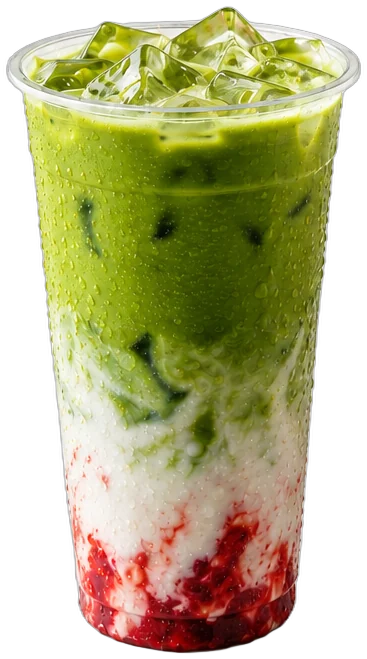
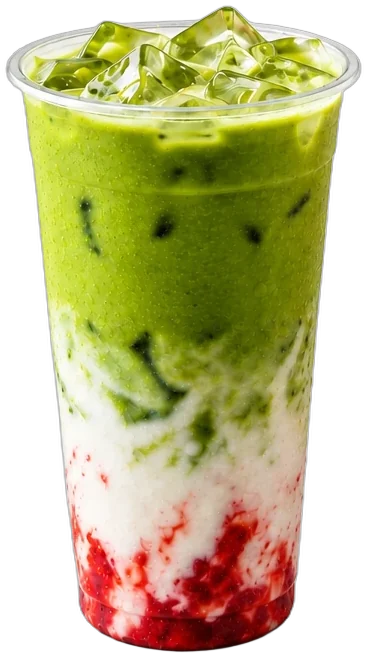
Neues Hero-Bild ohne Wassertropfen, matte Goldschrift, neue Impressionen
- Becher im Hero und bei den Highlights aus dem neuen Bild des Auftraggebers
  (ohne Kondenstropfen), lokal freigestellt; Karten-Vorschaubilder und
  og-image neu erzeugt
- Goldschrift matt statt glänzend (ruhiger Goldverlauf, weichere Tiefe)
- Impressionen: Instagram-Screenshots entfernt, sechs gemeinfreie
  Stimmungsbilder (CC0 1.0) eingesetzt; Texte, Footer-Hinweis, Impressum und
  BILDQUELLEN entsprechend angepasst

Claude-Session: https://claude.ai/code/session_01NMtSxo3TCHUsXYCRgdWDrR

diff --git a/assets/js/content-fallback.js b/assets/js/content-fallback.js
@@ -1,2 +1,2 @@
 /* Automatisch erzeugt aus content.json (node tools/build-fallback.mjs). Bitte nicht von Hand bearbeiten. */
-window.KARMA_FALLBACK = {"_anleitung":"Alle Texte, Preise und Öffnungszeiten der Website stehen in dieser Datei. Nur den Text zwischen den Anführungszeichen rechts vom Doppelpunkt ändern. Mehr dazu in LIES-MICH.md.","cafe":{"name":"Karma Specialty Coffee","kurzname":"Karma","slogan_auf_becher":"This is your Karma","strasse":"Bahnstraße 4","plz":"63225","ort":"Langen (Hessen)","instagram_name":"@yourkarmacoffee","instagram_link":"https://www.instagram.com/yourkarmacoffee/","route_link":"https://www.google.com/maps/search/?api=1&query=Karma+Specialty+Coffee+Bahnstra%C3%9Fe+4+63225+Langen","google_sterne":"4,4","google_anzahl_bewertungen":"103","google_link":"https://www.google.com/maps/search/?api=1&query=Karma+Specialty+Coffee+Bahnstra%C3%9Fe+4+63225+Langen"},"seo":{"seitentitel":"Karma Specialty Coffee · Açaí, Matcha & Kaffee in Langen","beschreibung":"Açaí Cups, Iced Matcha und Specialty Coffee in der Bahnstraße 4 in Langen (Hessen). Täglich von 9 bis 19 Uhr geöffnet."},"navigation":{"acai":"Açaí","matcha":"Matcha","karte":"Karte","besuch":"Besuch","heute_offen":"Heute geöffnet","heute_zu":"Gerade geschlossen","bis":"bis","ab":"ab","uhr":"Uhr"},"hero":{"titel_zeile_1":"Karma","titel_zeile_2":"Specialty Coffee","claim":"Açaí, Matcha & Specialty Coffee mitten in Langen.","karte_button":"Zur Karte","bewertung_text":"Google-Bewertungen","becher":["Iced Strawberry Matcha mit grünem Matcha, Milch, Erdbeerpüree und Eiswürfeln","Açaí-Becher mit Mango-Maracuja-Schicht, belegt mit Erdbeeren, Banane und Kakao-Nibs","Açaí-Becher mit Granola und Kokoscreme, belegt mit Banane, Erdbeeren, Kiwi, Chia und Schokosauce","Rosa Erdbeer-Smoothie mit Erdbeerstücken und Strohhalm"]},"highlights":{"titel":"Highlight","zutaten_titel":"Drin & drauf","preis_hinweis":"Beispielpreis","eintraege":[{"id":"acai","name":"Karma Signature","kursiv":"Signature","untertitel":"Unser Açaí Cup, Schicht für Schicht.","beschreibung":"Gefrorenes Açaí im Wechsel mit Kokoscreme und knusprigem Granola. Oben Banane, Erdbeeren, Kiwi, ein Hauch Chia und Schokosauce.","zutaten":["Açaí","Kokoscreme","Granola","Banane","Erdbeeren","Kiwi","Chia","Schokosauce"],"groesse":"0,4 l","preis":"8,90 €","hintergrundwort":"Açaí","bild_beschreibung":"Açaí-Becher mit Schichten aus Açaí, Kokoscreme und Granola, belegt mit Banane, Erdbeeren, Kiwi, Chia und Schokosauce"},{"id":"matcha","name":"Iced Strawberry Matcha","kursiv":"Matcha","untertitel":"Drei Schichten auf Eis.","beschreibung":"Unten Erdbeerpüree, in der Mitte kalte Milch, oben aufgeschlagener Ceremonial Matcha. Umrühren oder Schicht für Schicht trinken.","zutaten":["Ceremonial Matcha","Milch nach Wahl","Erdbeerpüree","Eis"],"groesse":"0,4 l","preis":"5,90 €","hintergrundwort":"Matcha","bild_beschreibung":"Iced Strawberry Matcha mit grünem Matcha, weißer Milch und roter Erdbeerschicht, mit Eiswürfeln"}]},"impressionen":{"titel":"Impressionen","text":"So sieht es bei uns aus, direkt vom Tresen.","instagram_text":"Mehr auf Instagram","bilder":[{"bild":"assets/impressionen/karma-02-swirl-duo.webp","format":"hoch","bildunterschrift":"Swirl & Crunch","beschreibung":"Zwei Açaí-Becher mit weißem Swirl, Beeren, Kokos und Mandelblättchen auf der Theke"},{"bild":"assets/impressionen/karma-01-chia-layer.webp","format":"hoch","bildunterschrift":"Schicht für Schicht","beschreibung":"Becher mit Açaí, Erdnussbutter und Chiapudding, belegt mit Beeren, Banane und Mandeln"},{"bild":"assets/impressionen/karma-03-trio.webp","format":"hoch","bildunterschrift":"Frisch gemacht","beschreibung":"Drei Açaí-Becher in einer Reihe mit Blaubeeren, Erdbeeren, Erdnussbutter und Kakao-Nibs"}]},"speisekarte":{"titel":"Die Karte","einleitung":"Ein Auszug aus dem, was es bei uns gibt.","hinweis":"Beispielkarte: Auswahl und Preise sind beispielhaft und können vor Ort abweichen.","kategorien":[{"id":"cups","name":"Açaí Cups","eintraege":[{"name":"Karma Signature","beschreibung":"Açaí, Kokoscreme, Granola, Banane, Erdbeeren, Kiwi, Schokosauce","preis":"8,90 €","bild":"assets/img/karte/cup-karma.webp"},{"name":"Mango Passion","beschreibung":"Açaí, Mango-Maracuja, Banane, Erdbeeren, Kakao-Nibs","preis":"8,40 €","bild":"assets/img/karte/cup-mango.webp"},{"name":"Classic","beschreibung":"Açaí, Kokos-Swirl, Blaubeeren, Erdbeeren, Kokos","preis":"7,90 €","bild":"assets/img/karte/cup-classic.webp"},{"name":"Caramel Crunch","beschreibung":"Açaí, Karamell, Vanille-Topping, Mandeln","preis":"8,40 €","bild":"assets/img/karte/cup-caramel.webp"},{"name":"Peanut Power","beschreibung":"Açaí, Chiapudding, Erdnussbutter, Beeren","preis":"8,90 €","bild":"assets/img/karte/cup-peanut.webp"},{"name":"Berry Blast","beschreibung":"Açaí, Chia, Erdbeeren, Blaubeeren, Kakao-Nibs","preis":"8,40 €","bild":"assets/img/karte/cup-berry.webp"}]},{"id":"eigener-cup","name":"Eigener Cup","eintraege":[{"name":"Açaí & Kokos","beschreibung":"Açaí mit Kokos-Swirl, dazu zwei Toppings nach Wahl","preis":"7,20 €","bild":"assets/img/karte/cup-base-kokos.webp"},{"name":"Açaí & Karamell","beschreibung":"Açaí mit Karamell-Swirl, dazu zwei Toppings nach Wahl","preis":"7,20 €","bild":"assets/img/karte/cup-base-karamell.webp"},{"name":"Açaí & Chia","beschreibung":"Açaí mit Chiapudding, dazu zwei Toppings nach Wahl","preis":"7,50 €","bild":"assets/img/karte/cup-base-chia.webp"}]},{"id":"smoothies","name":"Smoothies","eintraege":[{"name":"Green Glow","beschreibung":"Spinat, Apfel, Banane, Ingwer, Limette","preis":"6,50 €","bild":"assets/img/karte/smoothie-green.webp"},{"name":"Pink Karma","beschreibung":"Erdbeere, Himbeere, Banane, Hafermilch","preis":"6,50 €","bild":"assets/img/karte/smoothie-pink.webp"},{"name":"Mango Sunrise","beschreibung":"Mango, Maracuja, Orange, Kokoswasser","preis":"6,50 €","bild":"assets/img/karte/smoothie-mango.webp"}]},{"id":"matcha","name":"Matcha & Drinks","eintraege":[{"name":"Iced Strawberry Matcha","beschreibung":"Erdbeerpüree, Milch, Ceremonial Matcha","preis":"5,90 €","bild":"assets/img/karte/drink-strawberry-matcha.webp"},{"name":"Iced Matcha Latte","beschreibung":"Ceremonial Matcha auf Milch und Eis","preis":"5,20 €","bild":"assets/img/karte/drink-iced-matcha.webp"},{"name":"Matcha Latte","beschreibung":"Heiß, mit Milch nach Wahl","preis":"4,90 €","bild":"assets/img/karte/drink-matcha-latte.webp"},{"name":"Chai Latte","beschreibung":"Gewürzter Schwarztee mit Milch und Zimt","preis":"4,60 €","bild":"assets/img/karte/drink-chai.webp"}]},{"id":"kaffee","name":"Kaffee","eintraege":[{"name":"Espresso","beschreibung":"Specialty Roast, doppelt","preis":"2,60 €","bild":"assets/img/karte/coffee-espresso.webp"},{"name":"Cappuccino","beschreibung":"Espresso, Milchschaum, Latte Art","preis":"3,80 €","bild":"assets/img/karte/coffee-cappuccino.webp"},{"name":"Flat White","beschreibung":"Doppelter Espresso, wenig Milch","preis":"4,20 €","bild":"assets/img/karte/coffee-flatwhite.webp"},{"name":"Iced Latte","beschreibung":"Espresso auf Milch und Eis","preis":"4,50 €","bild":"assets/img/karte/coffee-iced-latte.webp"}]},{"id":"extras","name":"Extras & Toppings","eintraege":[{"name":"Granola","beschreibung":"Hausgemacht, knusprig","preis":"0,80 €","bild":"assets/img/karte/extra-granola.webp"},{"name":"Erdnussbutter","beschreibung":"Cremig, ohne Zuckerzusatz","preis":"1,00 €","bild":"assets/img/karte/extra-peanut.webp"},{"name":"Kokoschips","beschreibung":"Geröstet","preis":"0,70 €","bild":"assets/img/karte/extra-coconut.webp"},{"name":"Frische Früchte","beschreibung":"Beeren, Banane, Mango","preis":"1,20 €","bild":"assets/img/karte/extra-fruit.webp"}]}]},"oeffnungszeiten":{"titel":"Öffnungszeiten","zusammenfassung":"Täglich 9–19 Uhr","tage":[{"tag":"Montag","zeiten":["09:00-19:00"]},{"tag":"Dienstag","zeiten":["09:00-19:00"]},{"tag":"Mittwoch","zeiten":["09:00-19:00"]},{"tag":"Donnerstag","zeiten":["09:00-19:00"]},{"tag":"Freitag","zeiten":["09:00-19:00"]},{"tag":"Samstag","zeiten":["09:00-19:00"]},{"tag":"Sonntag","zeiten":["09:00-19:00"]}],"geschlossen_text":"geschlossen"},"besuch":{"kicker":"Besuch uns","titel":"Komm vorbei.","kursiv":"vorbei.","text":"Mitten in Langen, ein paar Schritte vom Bahnhof. Zum Mitnehmen oder für eine Pause am Fenster.","route_button":"Route planen","instagram_button":"Instagram","bewertung_text":"bei Google","bewertungen_wort":"Bewertungen"},"footer":{"impressum_text":"Impressum","impressum_link":"impressum.html","datenschutz_text":"Datenschutz","datenschutz_link":"datenschutz.html","copyright":"© 2026 Karma Specialty Coffee","demo_hinweis":"Demo-Website. Preise und Speisekarte sind Beispielinhalte."},"bildkennzeichnung":{"bild_text":"Symbolbild","footer_text_anzeigen":true,"footer_text":"Die Becher im Hero und bei den Highlights sind Symbolbilder. Die Fotos unter „Impressionen“ und die Vorschaubilder der Signature Cups sind echte Fotos aus dem Café, die übrigen Vorschaubilder der Karte sind 3D-Visualisierungen."},"bedienhilfen":{"zum_inhalt_springen":"Zum Inhalt springen","hauptnavigation":"Hauptnavigation","galerie_label":"Fotos aus dem Café","laden":"Lädt","sterne_label":"von 5 Sternen"}};
+window.KARMA_FALLBACK = {"_anleitung":"Alle Texte, Preise und Öffnungszeiten der Website stehen in dieser Datei. Nur den Text zwischen den Anführungszeichen rechts vom Doppelpunkt ändern. Mehr dazu in LIES-MICH.md.","cafe":{"name":"Karma Specialty Coffee","kurzname":"Karma","slogan_auf_becher":"This is your Karma","strasse":"Bahnstraße 4","plz":"63225","ort":"Langen (Hessen)","instagram_name":"@yourkarmacoffee","instagram_link":"https://www.instagram.com/yourkarmacoffee/","route_link":"https://www.google.com/maps/search/?api=1&query=Karma+Specialty+Coffee+Bahnstra%C3%9Fe+4+63225+Langen","google_sterne":"4,4","google_anzahl_bewertungen":"103","google_link":"https://www.google.com/maps/search/?api=1&query=Karma+Specialty+Coffee+Bahnstra%C3%9Fe+4+63225+Langen"},"seo":{"seitentitel":"Karma Specialty Coffee · Açaí, Matcha & Kaffee in Langen","beschreibung":"Açaí Cups, Iced Matcha und Specialty Coffee in der Bahnstraße 4 in Langen (Hessen). Täglich von 9 bis 19 Uhr geöffnet."},"navigation":{"acai":"Açaí","matcha":"Matcha","karte":"Karte","besuch":"Besuch","heute_offen":"Heute geöffnet","heute_zu":"Gerade geschlossen","bis":"bis","ab":"ab","uhr":"Uhr"},"hero":{"titel_zeile_1":"Karma","titel_zeile_2":"Specialty Coffee","claim":"Açaí, Matcha & Specialty Coffee mitten in Langen.","karte_button":"Zur Karte","bewertung_text":"Google-Bewertungen","becher":["Iced Strawberry Matcha mit grünem Matcha, Milch, Erdbeerpüree und Eiswürfeln","Açaí-Becher mit Mango-Maracuja-Schicht, belegt mit Erdbeeren, Banane und Kakao-Nibs","Açaí-Becher mit Granola und Kokoscreme, belegt mit Banane, Erdbeeren, Kiwi, Chia und Schokosauce","Rosa Erdbeer-Smoothie mit Erdbeerstücken und Strohhalm"]},"highlights":{"titel":"Highlight","zutaten_titel":"Drin & drauf","preis_hinweis":"Beispielpreis","eintraege":[{"id":"acai","name":"Karma Signature","kursiv":"Signature","untertitel":"Unser Açaí Cup, Schicht für Schicht.","beschreibung":"Gefrorenes Açaí im Wechsel mit Kokoscreme und knusprigem Granola. Oben Banane, Erdbeeren, Kiwi, ein Hauch Chia und Schokosauce.","zutaten":["Açaí","Kokoscreme","Granola","Banane","Erdbeeren","Kiwi","Chia","Schokosauce"],"groesse":"0,4 l","preis":"8,90 €","hintergrundwort":"Açaí","bild_beschreibung":"Açaí-Becher mit Schichten aus Açaí, Kokoscreme und Granola, belegt mit Banane, Erdbeeren, Kiwi, Chia und Schokosauce"},{"id":"matcha","name":"Iced Strawberry Matcha","kursiv":"Matcha","untertitel":"Drei Schichten auf Eis.","beschreibung":"Unten Erdbeerpüree, in der Mitte kalte Milch, oben aufgeschlagener Ceremonial Matcha. Umrühren oder Schicht für Schicht trinken.","zutaten":["Ceremonial Matcha","Milch nach Wahl","Erdbeerpüree","Eis"],"groesse":"0,4 l","preis":"5,90 €","hintergrundwort":"Matcha","bild_beschreibung":"Iced Strawberry Matcha mit grünem Matcha, weißer Milch und roter Erdbeerschicht, mit Eiswürfeln"}]},"impressionen":{"titel":"Impressionen","text":"Açaí, Matcha, Smoothies und Kaffee: so schmeckt ein guter Tag.","instagram_text":"Echte Fotos aus dem Café auf Instagram","bilder":[{"bild":"assets/impressionen/karma-01-smoothie-trio.webp","format":"hoch","bildunterschrift":"Frisch geschichtet","beschreibung":"Drei geschichtete Smoothies mit Banane, Mango und Granola in Gläsern"},{"bild":"assets/impressionen/karma-02-matcha-latte.webp","format":"hoch","bildunterschrift":"Matcha Latte","beschreibung":"Grüner Matcha Latte mit Milchschaum-Muster, von oben fotografiert"},{"bild":"assets/impressionen/karma-03-iced-latte.webp","format":"hoch","bildunterschrift":"Iced Latte","beschreibung":"Iced Latte mit Eiswürfeln und Strohhalm auf einem Holztisch"},{"bild":"assets/impressionen/karma-04-cappuccino.webp","format":"hoch","bildunterschrift":"Cappuccino","beschreibung":"Cappuccino mit Latte Art in einer blauen Tasse auf Untertasse"},{"bild":"assets/impressionen/karma-05-erdbeer-smoothie.webp","format":"hoch","bildunterschrift":"Erdbeer-Smoothie","beschreibung":"Rosa Erdbeer-Smoothie im Glas mit einer Erdbeere am Rand"},{"bild":"assets/impressionen/karma-06-latte-art.webp","format":"hoch","bildunterschrift":"Latte Art","beschreibung":"Hände gießen Milchschaum in eine Tasse Kaffee und formen ein Muster"}]},"speisekarte":{"titel":"Die Karte","einleitung":"Ein Auszug aus dem, was es bei uns gibt.","hinweis":"Beispielkarte: Auswahl und Preise sind beispielhaft und können vor Ort abweichen.","kategorien":[{"id":"cups","name":"Açaí Cups","eintraege":[{"name":"Karma Signature","beschreibung":"Açaí, Kokoscreme, Granola, Banane, Erdbeeren, Kiwi, Schokosauce","preis":"8,90 €","bild":"assets/img/karte/cup-karma.webp"},{"name":"Mango Passion","beschreibung":"Açaí, Mango-Maracuja, Banane, Erdbeeren, Kakao-Nibs","preis":"8,40 €","bild":"assets/img/karte/cup-mango.webp"},{"name":"Classic","beschreibung":"Açaí, Kokos-Swirl, Blaubeeren, Erdbeeren, Kokos","preis":"7,90 €","bild":"assets/img/karte/cup-classic.webp"},{"name":"Caramel Crunch","beschreibung":"Açaí, Karamell, Vanille-Topping, Mandeln","preis":"8,40 €","bild":"assets/img/karte/cup-caramel.webp"},{"name":"Peanut Power","beschreibung":"Açaí, Chiapudding, Erdnussbutter, Beeren","preis":"8,90 €","bild":"assets/img/karte/cup-peanut.webp"},{"name":"Berry Blast","beschreibung":"Açaí, Chia, Erdbeeren, Blaubeeren, Kakao-Nibs","preis":"8,40 €","bild":"assets/img/karte/cup-berry.webp"}]},{"id":"eigener-cup","name":"Eigener Cup","eintraege":[{"name":"Açaí & Kokos","beschreibung":"Açaí mit Kokos-Swirl, dazu zwei Toppings nach Wahl","preis":"7,20 €","bild":"assets/img/karte/cup-base-kokos.webp"},{"name":"Açaí & Karamell","beschreibung":"Açaí mit Karamell-Swirl, dazu zwei Toppings nach Wahl","preis":"7,20 €","bild":"assets/img/karte/cup-base-karamell.webp"},{"name":"Açaí & Chia","beschreibung":"Açaí mit Chiapudding, dazu zwei Toppings nach Wahl","preis":"7,50 €","bild":"assets/img/karte/cup-base-chia.webp"}]},{"id":"smoothies","name":"Smoothies","eintraege":[{"name":"Green Glow","beschreibung":"Spinat, Apfel, Banane, Ingwer, Limette","preis":"6,50 €","bild":"assets/img/karte/smoothie-green.webp"},{"name":"Pink Karma","beschreibung":"Erdbeere, Himbeere, Banane, Hafermilch","preis":"6,50 €","bild":"assets/img/karte/smoothie-pink.webp"},{"name":"Mango Sunrise","beschreibung":"Mango, Maracuja, Orange, Kokoswasser","preis":"6,50 €","bild":"assets/img/karte/smoothie-mango.webp"}]},{"id":"matcha","name":"Matcha & Drinks","eintraege":[{"name":"Iced Strawberry Matcha","beschreibung":"Erdbeerpüree, Milch, Ceremonial Matcha","preis":"5,90 €","bild":"assets/img/karte/drink-strawberry-matcha.webp"},{"name":"Iced Matcha Latte","beschreibung":"Ceremonial Matcha auf Milch und Eis","preis":"5,20 €","bild":"assets/img/karte/drink-iced-matcha.webp"},{"name":"Matcha Latte","beschreibung":"Heiß, mit Milch nach Wahl","preis":"4,90 €","bild":"assets/img/karte/drink-matcha-latte.webp"},{"name":"Chai Latte","beschreibung":"Gewürzter Schwarztee mit Milch und Zimt","preis":"4,60 €","bild":"assets/img/karte/drink-chai.webp"}]},{"id":"kaffee","name":"Kaffee","eintraege":[{"name":"Espresso","beschreibung":"Specialty Roast, doppelt","preis":"2,60 €","bild":"assets/img/karte/coffee-espresso.webp"},{"name":"Cappuccino","beschreibung":"Espresso, Milchschaum, Latte Art","preis":"3,80 €","bild":"assets/img/karte/coffee-cappuccino.webp"},{"name":"Flat White","beschreibung":"Doppelter Espresso, wenig Milch","preis":"4,20 €","bild":"assets/img/karte/coffee-flatwhite.webp"},{"name":"Iced Latte","beschreibung":"Espresso auf Milch und Eis","preis":"4,50 €","bild":"assets/img/karte/coffee-iced-latte.webp"}]},{"id":"extras","name":"Extras & Toppings","eintraege":[{"name":"Granola","beschreibung":"Hausgemacht, knusprig","preis":"0,80 €","bild":"assets/img/karte/extra-granola.webp"},{"name":"Erdnussbutter","beschreibung":"Cremig, ohne Zuckerzusatz","preis":"1,00 €","bild":"assets/img/karte/extra-peanut.webp"},{"name":"Kokoschips","beschreibung":"Geröstet","preis":"0,70 €","bild":"assets/img/karte/extra-coconut.webp"},{"name":"Frische Früchte","beschreibung":"Beeren, Banane, Mango","preis":"1,20 €","bild":"assets/img/karte/extra-fruit.webp"}]}]},"oeffnungszeiten":{"titel":"Öffnungszeiten","zusammenfassung":"Täglich 9–19 Uhr","tage":[{"tag":"Montag","zeiten":["09:00-19:00"]},{"tag":"Dienstag","zeiten":["09:00-19:00"]},{"tag":"Mittwoch","zeiten":["09:00-19:00"]},{"tag":"Donnerstag","zeiten":["09:00-19:00"]},{"tag":"Freitag","zeiten":["09:00-19:00"]},{"tag":"Samstag","zeiten":["09:00-19:00"]},{"tag":"Sonntag","zeiten":["09:00-19:00"]}],"geschlossen_text":"geschlossen"},"besuch":{"kicker":"Besuch uns","titel":"Komm vorbei.","kursiv":"vorbei.","text":"Mitten in Langen, ein paar Schritte vom Bahnhof. Zum Mitnehmen oder für eine Pause am Fenster.","route_button":"Route planen","instagram_button":"Instagram","bewertung_text":"bei Google","bewertungen_wort":"Bewertungen"},"footer":{"impressum_text":"Impressum","impressum_link":"impressum.html","datenschutz_text":"Datenschutz","datenschutz_link":"datenschutz.html","copyright":"© 2026 Karma Specialty Coffee","demo_hinweis":"Demo-Website. Preise und Speisekarte sind Beispielinhalte."},"bildkennzeichnung":{"bild_text":"Symbolbild","footer_text_anzeigen":true,"footer_text":"Die Becher im Hero und bei den Highlights sind Symbolbilder. Die Fotos unter „Impressionen“ sind gemeinfreie Stimmungsbilder (CC0), nicht aus dem Café. Die Vorschaubilder der Signature Cups sind echte Fotos aus dem Café, die übrigen Vorschaubilder der Karte sind 3D-Visualisierungen."},"bedienhilfen":{"zum_inhalt_springen":"Zum Inhalt springen","hauptnavigation":"Hauptnavigation","galerie_label":"Stimmungsbilder","laden":"Lädt","sterne_label":"von 5 Sternen"}};

diff --git a/index.html b/index.html
@@ -33,19 +33,19 @@
   "sameAs": ["https://www.instagram.com/yourkarmacoffee/"]
 }
 </script>
-<link rel="stylesheet" href="assets/css/style.css?v=6">
+<link rel="stylesheet" href="assets/css/style.css?v=7">
 <script>
   /* Bewegung nur, wenn der Besucher sie nicht im System abgeschaltet hat */
   if (!window.matchMedia('(prefers-reduced-motion: reduce)').matches) document.documentElement.classList.add('motion-ok');
 </script>
 <!-- Erst die Inhalte, dann die Animationen. Alles liegt lokal, es gibt keine externen Verbindungen. -->
-<script src="assets/js/content-fallback.js?v=6" defer></script>
-<script src="assets/js/content.js?v=6" defer></script>
+<script src="assets/js/content-fallback.js?v=7" defer></script>
+<script src="assets/js/content.js?v=7" defer></script>
 <script src="assets/vendor/gsap.min.js" defer></script>
 <script src="assets/vendor/ScrollTrigger.min.js" defer></script>
 <script src="assets/vendor/SplitText.min.js" defer></script>
 <script src="assets/vendor/lenis.min.js" defer></script>
-<script src="assets/js/motion.js?v=6" defer></script>
+<script src="assets/js/motion.js?v=7" defer></script>
 </head>
 <body>
 <svg class="sprite" aria-hidden="true" focusable="false">
@@ -86,10 +86,10 @@
       <span class="gold gold--sm" data-hero-line aria-hidden="true" data-c="hero.titel_zeile_2">Specialty Coffee</span>
     </h1>
     <figure class="hero__cups" data-hero-cups>
-      <img class="hero__cup hero__cup--matcha" src="assets/hero/cup-matcha.webp" width="367" height="659" alt="" data-attr="alt=hero.becher.0" decoding="async" fetchpriority="high">
-      <img class="hero__cup hero__cup--mango" src="assets/hero/cup-mango.webp" width="383" height="652" alt="" data-attr="alt=hero.becher.1" decoding="async" fetchpriority="high">
-      <img class="hero__cup hero__cup--karma" src="assets/hero/cup-karma.webp" width="378" height="648" alt="" data-attr="alt=hero.becher.2" decoding="async" fetchpriority="high">
-      <img class="hero__cup hero__cup--pink" src="assets/hero/cup-pink.webp" width="385" height="744" alt="" data-attr="alt=hero.becher.3" decoding="async" fetchpriority="high">
+      <img class="hero__cup hero__cup--matcha" src="assets/hero/cup-matcha.webp" width="367" height="658" alt="" data-attr="alt=hero.becher.0" decoding="async" fetchpriority="high">
+      <img class="hero__cup hero__cup--mango" src="assets/hero/cup-mango.webp" width="383" height="651" alt="" data-attr="alt=hero.becher.1" decoding="async" fetchpriority="high">
+      <img class="hero__cup hero__cup--karma" src="assets/hero/cup-karma.webp" width="378" height="646" alt="" data-attr="alt=hero.becher.2" decoding="async" fetchpriority="high">
+      <img class="hero__cup hero__cup--pink" src="assets/hero/cup-pink.webp" width="384" height="743" alt="" data-attr="alt=hero.becher.3" decoding="async" fetchpriority="high">
       <figcaption class="render-badge" data-c="bildkennzeichnung.bild_text">Symbolbild</figcaption>
     </figure>
     <div class="hero__foot" data-hero-foot>
@@ -111,7 +111,7 @@
     <p class="spot__word" aria-hidden="true" data-spot-word data-c="highlights.eintraege.0.hintergrundwort"></p>
     <div class="wrap spot__grid">
       <figure class="spot__media" data-spot-media>
-        <img class="spot__cup" src="assets/hero/cup-karma.webp" width="378" height="648" alt="" data-attr="alt=highlights.eintraege.0.bild_beschreibung" loading="lazy" decoding="async">
+        <img class="spot__cup" src="assets/hero/cup-karma.webp" width="378" height="646" alt="" data-attr="alt=highlights.eintraege.0.bild_beschreibung" loading="lazy" decoding="async">
         <figcaption class="render-badge" data-c="bildkennzeichnung.bild_text"></figcaption>
       </figure>
       <article class="spot__copy" data-spot-copy>
@@ -146,7 +146,7 @@
         </p>
       </article>
       <figure class="spot__media" data-spot-media>
-        <img class="spot__cup" src="assets/hero/cup-matcha.webp" width="367" height="659" alt="" data-attr="alt=highlights.eintraege.1.bild_beschreibung" loading="lazy" decoding="async">
+        <img class="spot__cup" src="assets/hero/cup-matcha.webp" width="367" height="658" alt="" data-attr="alt=highlights.eintraege.1.bild_beschreibung" loading="lazy" decoding="async">
         <figcaption class="render-badge" data-c="bildkennzeichnung.bild_text"></figcaption>
       </figure>
     </div>
@@ -165,7 +165,7 @@
     </div>
   </section>
 
-  <!-- 5 · Impressionen: echte Fotos aus dem Café (vom Café bereitgestellt) -->
+  <!-- 5 · Impressionen: gemeinfreie Stimmungsbilder (CC0, Nachweis in BILDQUELLEN.md) -->
   <section class="gallery" id="impressionen" aria-labelledby="gallery-title" data-gallery>
     <div class="wrap gallery__head">
       <h2 class="h2" id="gallery-title" data-c="impressionen.titel" data-reveal></h2>

diff --git a/assets/css/style.css b/assets/css/style.css
@@ -218,27 +218,23 @@ html:not(.motion-ok) .nav { background: color-mix(in srgb, var(--cream) 90%, tra
   white-space: nowrap; opacity: .55; pointer-events: none;
 }
 
-/* ---------- Goldene 3D-Schrift ----------
-   Fläche: metallischer Verlauf, auf die Buchstaben zugeschnitten.
+/* ---------- Goldene 3D-Schrift (matt) ----------
+   Fläche: ruhiger, matter Goldton mit leichtem Verlauf, ohne Glanzstreifen.
    Tiefe: mehrere aneinandergehängte Schatten, jeder ein Stück dunkler, dann ein weicher Schlagschatten. */
 
 .gold {
   display: block;
   font-family: var(--display); font-weight: 700; font-optical-sizing: auto;
   color: var(--gold-mid);
-  background: linear-gradient(176deg,
-    #FFF6CF 0%, #F6DA86 16%, #E0B354 32%, #A8741F 47%, #7E5414 51%,
-    #C79437 60%, #F2D486 76%, #FFF0BC 84%, #D2A447 93%, #A0711F 100%);
+  background: linear-gradient(180deg, #D4AF62 0%, #C49A4C 45%, #B0863A 100%);
   -webkit-background-clip: text; background-clip: text;
   -webkit-text-fill-color: transparent;
   filter:
-    drop-shadow(.004em .006em 0 #C08E2E)
-    drop-shadow(.004em .006em 0 #A97A24)
-    drop-shadow(.004em .006em 0 #93681D)
-    drop-shadow(.004em .006em 0 #7D5717)
-    drop-shadow(.004em .006em 0 #684712)
-    drop-shadow(.004em .006em 0 #54380E)
-    drop-shadow(0 .05em .05em rgba(64, 38, 10, .32));
+    drop-shadow(.004em .006em 0 #9C7633)
+    drop-shadow(.004em .006em 0 #8E6A2C)
+    drop-shadow(.004em .006em 0 #805F27)
+    drop-shadow(.004em .006em 0 #725422)
+    drop-shadow(0 .04em .05em rgba(64, 38, 10, .18));
 }
 .gold--xl {
   font-size: var(--fs-hero); line-height: .9; letter-spacing: -.025em;
@@ -250,18 +246,16 @@ html:not(.motion-ok) .nav { background: color-mix(in srgb, var(--cream) 90%, tra
   padding-left: .42em;
   font-weight: 600;
   filter:
-    drop-shadow(.012em .02em 0 #A97A24)
-    drop-shadow(.012em .02em 0 #6E4C14)
-    drop-shadow(0 .1em .1em rgba(64, 38, 10, .22));
+    drop-shadow(.012em .02em 0 #8E6A2C)
+    drop-shadow(0 .08em .08em rgba(64, 38, 10, .14));
 }
 .gold--price {
   font-family: var(--display); font-weight: 700; font-size: clamp(2.4rem, 4vw, 3.8rem); line-height: 1;
   font-variant-numeric: tabular-nums lining-nums;
   filter:
-    drop-shadow(.01em .015em 0 #A97A24)
-    drop-shadow(.01em .015em 0 #7D5717)
-    drop-shadow(.01em .015em 0 #54380E)
-    drop-shadow(0 .06em .08em rgba(0, 0, 0, .3));
+    drop-shadow(.01em .015em 0 #8E6A2C)
+    drop-shadow(.01em .015em 0 #725422)
+    drop-shadow(0 .05em .06em rgba(0, 0, 0, .22));
 }
 
 /* ---------- 1 · Hero ---------- */
@@ -272,7 +266,7 @@ html:not(.motion-ok) .nav { background: color-mix(in srgb, var(--cream) 90%, tra
   display: grid; grid-template-rows: auto 1fr auto; justify-items: center;
   padding: calc(var(--nav-h) + clamp(.5rem, 2svh, 1.6rem)) var(--gutter) clamp(1.2rem, 3svh, 2.2rem);
   background:
-    radial-gradient(60% 46% at 50% 30%, rgba(255, 246, 214, .9), transparent 70%),
+    radial-gradient(60% 46% at 50% 30%, rgba(255, 248, 236, .7), transparent 70%),
     radial-gradient(80% 60% at 50% 100%, var(--cream-deep), transparent 70%),
     var(--cream);
 }
@@ -285,16 +279,16 @@ html:not(.motion-ok) .nav { background: color-mix(in srgb, var(--cream) 90%, tra
   margin-top: clamp(.8rem, 3svh, 2.4rem);
 }
 /* Alle Becher im selben Maßstab wie im Originalbild: Höhe = eigene Pixelhöhe x Faktor */
-.hero__cups { --k: min(calc((100svh - var(--nav-h) - var(--fs-hero) * 1.04 - 14rem) / 744), calc((100vw - var(--gutter) * 2) / 1560)); }
+.hero__cups { --k: min(calc((100svh - var(--nav-h) - var(--fs-hero) * 1.04 - 14rem) / 743), calc((100vw - var(--gutter) * 2) / 1560)); }
 .hero__cup {
   position: relative; width: auto; height: calc(var(--h) * var(--k));
   margin: 0 calc(var(--k) * 6px);
   filter: drop-shadow(0 calc(var(--k) * 18px) calc(var(--k) * 16px) rgba(70, 40, 20, .2));
 }
-.hero__cup--matcha { --h: 659; }
-.hero__cup--mango { --h: 652; }
-.hero__cup--karma { --h: 648; }
-.hero__cup--pink { --h: 744; }
+.hero__cup--matcha { --h: 658; }
+.hero__cup--mango { --h: 651; }
+.hero__cup--karma { --h: 646; }
+.hero__cup--pink { --h: 743; }
 .hero__cups .render-badge { bottom: auto; top: 100%; margin-top: .5rem; color: var(--ink-soft); }
 .hero__foot {
   width: 100%; margin-top: clamp(1.6rem, 4svh, 2.6rem);

diff --git a/impressum.html b/impressum.html
@@ -40,7 +40,7 @@
   <p>Wir sind nicht bereit oder verpflichtet, an Streitbeilegungsverfahren vor einer Verbraucherschlichtungsstelle teilzunehmen.</p>
 
   <h2>Bildnachweis</h2>
-  <p>Die Becher im Kopfbereich und bei den Highlights (Iced Strawberry Matcha, Açaí-Becher, Erdbeer-Smoothie) sind Symbolbilder, bereitgestellt von Karma Specialty Coffee. Die Fotos unter „Impressionen“ und die Vorschaubilder der Signature Cups in der Speisekarte stammen von Karma Specialty Coffee. Die übrigen Vorschaubilder der Speisekarte sind 3D-Visualisierungen (Symbolbilder), eigens für diese Website erstellt.</p>
+  <p>Die Becher im Kopfbereich und bei den Highlights (Iced Strawberry Matcha, Açaí-Becher, Erdbeer-Smoothie) sind Symbolbilder, bereitgestellt von Karma Specialty Coffee. Die Vorschaubilder der Signature Cups in der Speisekarte stammen von Karma Specialty Coffee. Die Fotos unter „Impressionen“ sind gemeinfreie Stimmungsbilder (CC0 1.0) von rawpixel.com, wordpress.org/photos (Gabriella Hawkins) und StockSnap.io (Atichart Wongubon). Die übrigen Vorschaubilder der Speisekarte sind 3D-Visualisierungen (Symbolbilder), eigens für diese Website erstellt.</p>
 </main>
 </body>
 </html>

diff --git a/BILDQUELLEN.md b/BILDQUELLEN.md
@@ -32,7 +32,7 @@ Urheberangabe prüfen und den Nachweis hier ergänzen.
 
 | Datei | Inhalt | Quelle | Urheber | Rechte |
 |---|---|---|---|---|
-| `assets/img/karte/cup-classic.webp`, `cup-caramel.webp`, `cup-peanut.webp`, `cup-berry.webp`, `cup-base-*.webp` | Vorschaubilder der Signature Cups und „Eigener Cup“ | Ausschnitte aus den Instagram-Fotos unter „Impressionen“ (Abschnitt 4), vom Auftraggeber bereitgestellt | Karma Specialty Coffee | Rechte beim Café. **Vor Veröffentlichung schriftliche Freigabe einholen.** |
+| `assets/img/karte/cup-classic.webp`, `cup-caramel.webp`, `cup-peanut.webp`, `cup-berry.webp`, `cup-base-*.webp` | Vorschaubilder der Signature Cups und „Eigener Cup“ | Ausschnitte aus drei Instagram-Fotos von @yourkarmacoffee (Screenshots), vom Auftraggeber bereitgestellt; die Fotos selbst sind nicht mehr auf der Website | Karma Specialty Coffee | Rechte beim Café. **Vor Veröffentlichung schriftliche Freigabe einholen.** |
 
 Bearbeitung: freigestellt (BiRefNet, lokal), zugeschnitten, **alle Metadaten (EXIF, ggf. GPS) entfernt**.
 Der Aufdruck „THISISYOUR karma“ auf diesen Bechern ist der echte Becheraufdruck des Cafés.
@@ -47,18 +47,27 @@ Der Aufdruck „THISISYOUR karma“ auf diesen Bechern ist der echte Becheraufdr
 **Wortmarke:** `assets/img/wordmark.svg` ist dem echten Becheraufdruck „THISISYOUR karma“ nachgebaut, aus den Umrissen der
 freien Schriften Jost und Courier Prime (siehe unten). Es ist das Markenzeichen des Cafés und wird nur für dessen eigene Website verwendet.
 
-## 4. Impressionen (echte Fotos aus dem Café)
+## 4. Impressionen: gemeinfreie Stimmungsbilder (CC0)
 
-| Datei | Motiv | Quelle | Urheber | Lizenz / Rechte |
+Die Fotos unter „Impressionen“ sind **keine Fotos aus dem Café**, sondern Stimmungsbilder. Alle sechs stehen unter
+**CC0 1.0** (Public Domain Dedication): Die Urheber haben auf alle Rechte verzichtet, die Bilder dürfen ohne Lizenz,
+ohne Namensnennung und auch kommerziell genutzt und bearbeitet werden. Gefunden über die Bildersuche Openverse
+(Filter: CC0 / Public Domain), einmalig heruntergeladen; die Website lädt nichts von diesen Seiten. Auf den Fotos sind
+keine Gesichter zu sehen, nur Hände. Der Hinweis „Stimmungsbilder, nicht aus dem Café“ steht im Footer und im Impressum.
+
+| Datei | Motiv | Quelle (Originalseite) | Urheber | Lizenz |
 |---|---|---|---|---|
-| `assets/impressionen/karma-01-chia-layer.webp` | Becher mit Açaí, Erdnussbutter, Chiapudding, Beeren | Instagram @yourkarmacoffee, https://www.instagram.com/yourkarmacoffee/, vom Auftraggeber als Screenshot bereitgestellt | Karma Specialty Coffee (Fotograf/in bitte beim Café erfragen) | Rechte beim Café. **Vor Veröffentlichung schriftliche Freigabe einholen.** |
-| `assets/impressionen/karma-02-swirl-duo.webp` | zwei Açaí-Becher mit Swirl | wie oben (Instagram-Bedienelement oben rechts weggeschnitten) | wie oben | wie oben |
-| `assets/impressionen/karma-03-trio.webp` | drei Becher in einer Reihe | wie oben (Instagram-Bedienelement weggeschnitten) | wie oben | wie oben |
+| `assets/impressionen/karma-01-smoothie-trio.webp` | drei geschichtete Smoothies | rawpixel.com, „Free strawberry mango peach smoothies“, https://www.rawpixel.com/image/5927939 | rawpixel (Public-Domain-Sammlung) | CC0 1.0 |
+| `assets/impressionen/karma-02-matcha-latte.webp` | Matcha Latte von oben | WordPress Photo Directory, https://wordpress.org/photos/photo/45669caef8/ | Gabriella Hawkins | CC0 1.0 |
+| `assets/impressionen/karma-03-iced-latte.webp` | Iced Latte mit Strohhalm | rawpixel.com, „Coffee latte, refreshing drink, summer“, https://www.rawpixel.com/image/6039514 | rawpixel (Public-Domain-Sammlung) | CC0 1.0 |
+| `assets/impressionen/karma-04-cappuccino.webp` | Cappuccino in blauer Tasse | StockSnap.io, „Cappuccino Froth“, https://stocksnap.io/photo/cappuccino-froth-0DS0WUZR9W | Atichart Wongubon | CC0 1.0 |
+| `assets/impressionen/karma-05-erdbeer-smoothie.webp` | Erdbeer-Smoothie im Glas | rawpixel.com, „Free strawberry smoothie“, https://www.rawpixel.com/image/5913729 | rawpixel (Public-Domain-Sammlung) | CC0 1.0 |
+| `assets/impressionen/karma-06-latte-art.webp` | Hände gießen Latte Art | rawpixel.com, „Free barista making latte art“, https://www.rawpixel.com/image/5926460 | rawpixel (Public-Domain-Sammlung) | CC0 1.0 |
 
-Bearbeitung: zugeschnitten, in WebP umgewandelt, **alle Metadaten (EXIF, ggf. GPS) entfernt**.
-Auf Foto 1 ist im Hintergrund unscharf ein Arm mit Handschuh zu sehen; eine Person ist nicht erkennbar.
-Die Fotos sind Screenshots mit etwa 750 Pixel Breite. Für die Veröffentlichung sind die Originaldateien
-(mindestens 1200 Pixel breit) deutlich besser.
+Lizenztext: https://creativecommons.org/publicdomain/zero/1.0/deed.de.
+Bearbeitung: auf 4:5 zugeschnitten, auf 800 × 1000 Pixel verkleinert, als WebP neu gespeichert (ohne Metadaten).
+Empfehlung vor dem Livegang: die sechs Originalseiten einmal aufrufen und die Lizenzangabe als Screenshot ablegen.
+Sobald es gute eigene Fotos aus dem Café gibt, sollten sie diese Stimmungsbilder ersetzen (Anleitung in LIES-MICH.md).
 
 ## 5. Nicht auf der Website
 

diff --git a/README.md b/README.md
@@ -6,11 +6,11 @@ One-Pager für **Karma Specialty Coffee**, Bahnstraße 4, 63225 Langen (Hessen).
 
 | # | Abschnitt | Inhalt und Bewegung |
 |---|---|---|
-| 1 | Hero | „Karma / Specialty Coffee“ in goldener 3D-Schrift (reines CSS: Metallverlauf + gestaffelte Schatten), darunter die vier Becher aus dem Bild des Auftraggebers. Schrift und Becher blenden beim Laden einmal ein; auf dem Handy stehen die Becher zwei mal zwei |
+| 1 | Hero | „Karma / Specialty Coffee“ in goldener 3D-Schrift (reines CSS: mattes Gold + gestaffelte Schatten), darunter die vier Becher aus dem Bild des Auftraggebers. Schrift und Becher blenden beim Laden einmal ein; auf dem Handy stehen die Becher zwei mal zwei |
 | 2 | Highlight **Açaí** | Lila Fläche, Becher 3 (Karma Signature) mit Beschreibung, Zutaten und Beispielpreis in Gold; Becher und Text blenden beim Scrollen ein, das große Hintergrundwort gleitet |
 | 3 | Highlight **Matcha** | Grüne Fläche, Becher 1 (Iced Strawberry Matcha), gespiegelt aufgebaut |
 | 4 | Speisekarte | Beispielkarte mit sechs Kategorien, Vorschaubildern und mitlaufenden Kategorie-Tabs |
-| 5 | Impressionen | Echte Café-Fotos im versetzten Editorial-Raster mit Parallax |
+| 5 | Impressionen | Gemeinfreie Stimmungsbilder (CC0) im versetzten Editorial-Raster mit Parallax |
 | 6 | Besuch | Adresse, Öffnungszeiten mit „Heute geöffnet bis …“, Google-Bewertung, Instagram, Route |
 
 Es gibt keine gepinnten Becher-Szenen mehr. Animiert werden ausschließlich `transform` und `opacity`.
@@ -30,7 +30,7 @@ Bei „Bewegung reduzieren“ ist alles sofort und unbewegt sichtbar.
 | `assets/css/style.css` | Gestaltung; Farben, Schriften und Abstände als Variablen ganz oben |
 | `assets/hero/` | Die vier freigestellten Becher (Hero und Highlights) |
 | `assets/img/karte/` | Vorschaubilder der Speisekarte |
-| `assets/impressionen/` | Fotos aus dem Café |
+| `assets/impressionen/` | Stimmungsbilder (CC0, Nachweis in BILDQUELLEN.md) |
 | `assets/fonts/` | Bodoni Moda, Instrument Sans (selbst gehostet, Latein-Zeichensatz) |
 | `assets/vendor/` | GSAP 3.15 (inkl. ScrollTrigger, SplitText), Lenis 1.3 (lokal, keine CDN-Verbindung) |
 | `impressum.html`, `datenschutz.html` | **Platzhalter**, vor Veröffentlichung ausfüllen |
@@ -92,17 +92,17 @@ Lighthouse 12 gegen `tools/serve.mjs` (verhält sich wie der Webhoster mit `.hta
 
 | | Performance | Barrierefreiheit | Best Practices | SEO | LCP | CLS |
 |---|---|---|---|---|---|---|
-| Desktop | 99–100 | 100 | 100 | 100 | 0,8 s | 0,004 |
-| Handy (gedrosselt) | 88 | 100 | 100 | 100 | 3,3 s | 0,002 |
+| Desktop | 100 | 100 | 100 | 100 | 0,7 s | 0,003 |
+| Handy (gedrosselt) | 95 | 100 | 100 | 100 | 2,5 s | 0,001 |
 
 - Konsole: keine Fehler und keine Warnungen; **keine einzige Anfrage an fremde Server** (geprüft mit `tools/shoot.mjs`,
   Desktop, Handy und „Bewegung reduzieren“).
-- Übertragung für die ganze Seite: ca. 0,8 MB.
+- Übertragung für die ganze Seite: ca. 1 MB.
 
 ## Qualitätsprüfung
 
 - `node tools/shoot.mjs desktop|mobile|reduced <ordner>`: Screenshots der ganzen Seite, Konsolenfehler, fremde Anfragen
 - `node tools/serve.mjs 8791`: lokaler Testserver mit Kompression und Cache-Headern wie in `.htaccess`
-- Nach Änderungen an CSS oder JavaScript die Versionsnummer `?v=` in `index.html` hochzählen (aktuell `?v=6`).
+- Nach Änderungen an CSS oder JavaScript die Versionsnummer `?v=` in `index.html` hochzählen (aktuell `?v=7`).
 - `.htaccess` (Apache): Kompression, Browser-Cache, Content-Security-Policy (nur eigene Dateien erlaubt). Beim Hochladen
   mitkopieren, sie ist eine versteckte Datei. Bei nginx-Hostern die Regeln entsprechend übertragen.

diff --git a/LIES-MICH.md b/LIES-MICH.md
@@ -37,7 +37,7 @@ Jede Zeile hat links einen **Namen** und rechts den **Inhalt**:
 | `navigation` | Menüpunkte oben, Text „Heute geöffnet bis …“ |
 | `hero` | Goldener Schriftzug ganz oben („Karma“ / „Specialty Coffee“), Satz und Knopf darunter, Bildbeschreibungen der vier Becher |
 | `highlights` | Die zwei Highlights vor der Karte (Açaí auf Lila, Matcha auf Grün): Name, Untertitel, Beschreibung, Zutaten, Größe, Beispielpreis |
-| `impressionen` | Die Fotos aus dem Café |
+| `impressionen` | Die Stimmungsbilder (derzeit gemeinfreie Fotos, nicht aus dem Café; gern durch eigene ersetzen) |
 | `speisekarte` | Kategorien und Einträge der Karte (Name, Beschreibung, Preis, Bild) |
 | `oeffnungszeiten` | Tage und Uhrzeiten |
 | `besuch`, `footer` | Texte unten, Links zu Impressum und Datenschutz |
